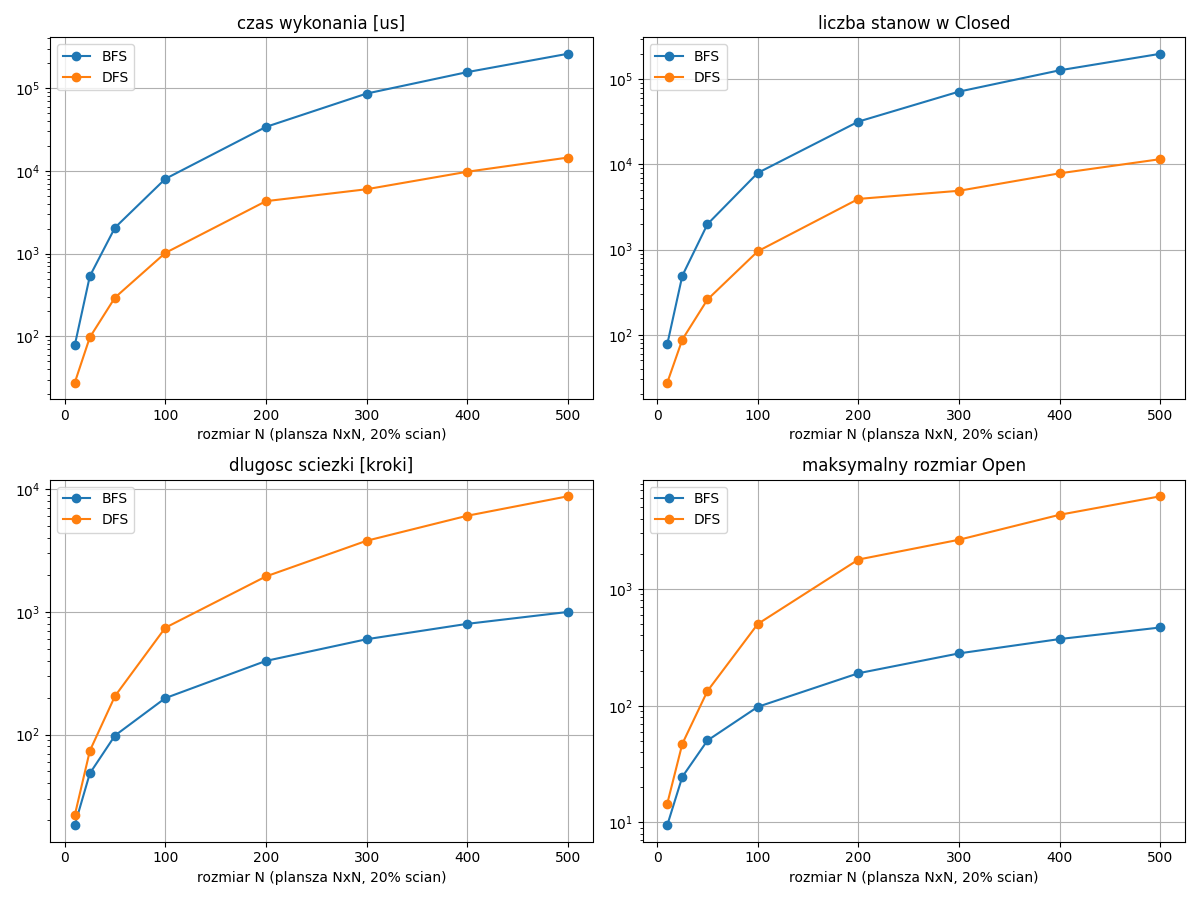
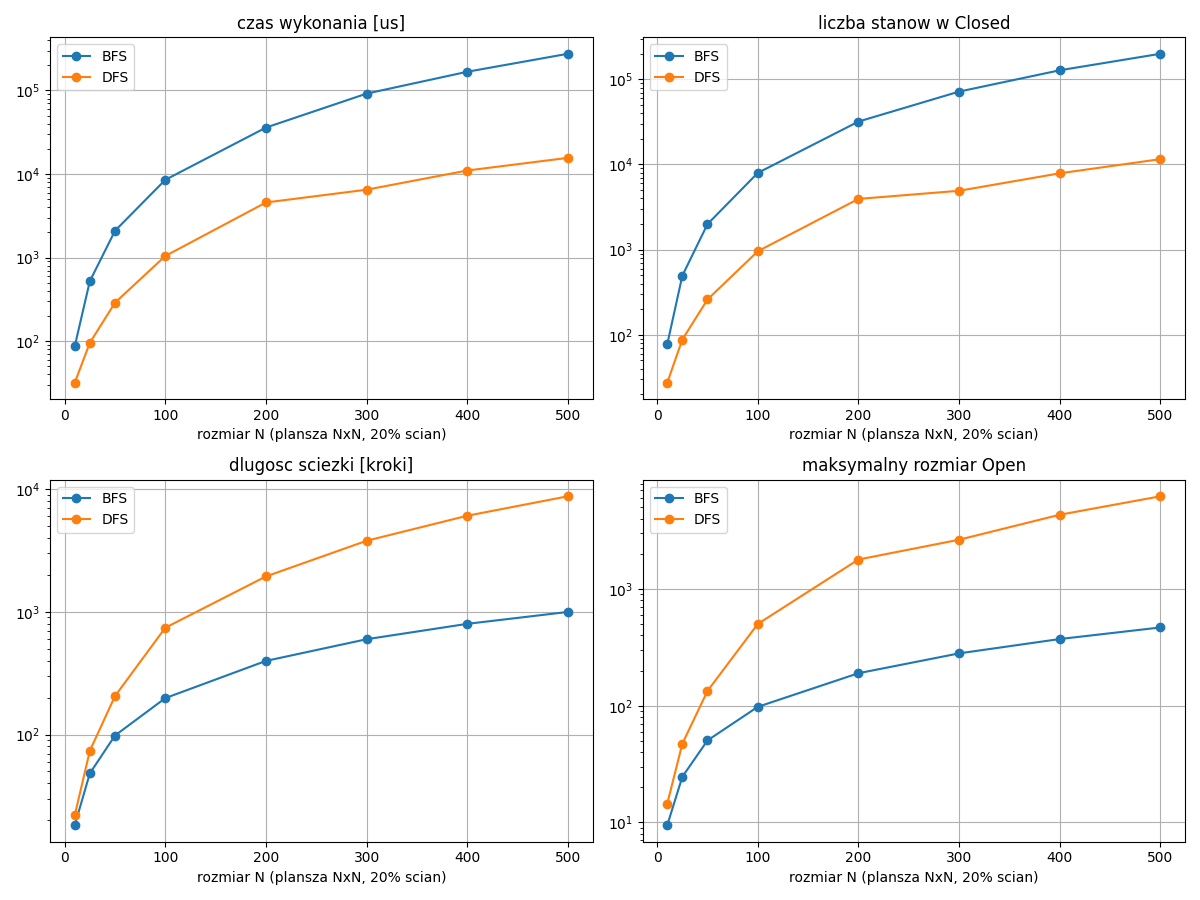
shorter version

diff --git a/LAB1/Kovalenko_A_lab1.py b/LAB1/Kovalenko_A_lab1.py
@@ -5,7 +5,7 @@ from collections import deque
 
 import matplotlib.pyplot as plt
 
-DIRS = [(-1, 0), (0, 1), (1, 0), (0, -1)]  # zad2: stala kolejnosc - gora, prawo, dol, lewo
+DIRS = [(-1, 0), (0, 1), (1, 0), (0, -1)]  # zad2: stala kolejnosc gora, prawo, dol, lewo
 
 
 # zad1: plansza = macierz 0/1 (0 wolne, 1 sciana); start (0,0) i cel (n-1,n-1) zawsze wolne
@@ -29,7 +29,7 @@ def neighbors(grid, pos, dirs=DIRS):
 def make_result(t0, found, goal, parent, open_list, closed, max_open):
     elapsed = (time.perf_counter() - t0) * 1e6
     path, node = [], goal if found else None
-    while node is not None:  # od celu do startu, potem odwracamy
+    while node is not None:  # od celu do startu potem odwracamy
         path.append(node)
         node = parent[node]
     path.reverse()
@@ -43,19 +43,19 @@ def make_result(t0, found, goal, parent, open_list, closed, max_open):
     return path, stats
 
 
-# zad3: bfs - Open jest kolejka FIFO
+# zad3: bfs - open jest kolejka fifo
 def bfs(grid, start, goal, dirs=DIRS):
     t0 = time.perf_counter()
     closed = set()  # Closed: odwiedzone stany
     parent = {start: None}  # pusty wskaznik rodzica dla startu
-    open_list = deque([start])  # Open: kolejka
-    in_open = {start}  # kopia Open jako zbior, test "t in Open" w O(1)
+    open_list = deque([start])
+    in_open = {start}
     max_open = 1
 
     while open_list:
-        s = open_list.popleft()  # FIFO: pobieramy z poczatku kolejki
+        s = open_list.popleft()
         in_open.remove(s)
-        if s == goal:  # test znalezienia rozwiazania
+        if s == goal:
             return make_result(t0, True, goal, parent, open_list, closed, max_open)
         for t in neighbors(grid, s, dirs):
             if t not in closed and t not in in_open:
@@ -67,19 +67,19 @@ def bfs(grid, start, goal, dirs=DIRS):
     return make_result(t0, False, goal, parent, open_list, closed, max_open)
 
 
-# zad3: dfs - Open jest stosem LIFO
+# zad3: dfs - open jest stosem lifo
 def dfs(grid, start, goal, dirs=DIRS):
     t0 = time.perf_counter()
-    closed = set()  # Closed: odwiedzone stany
-    parent = {start: None}  # pusty wskaznik rodzica dla startu
-    open_list = [start]  # Open: stos
-    in_open = {start}  # kopia Open jako zbior, test "t in Open" w O(1)
+    closed = set()
+    parent = {start: None}
+    open_list = [start]
+    in_open = {start}
     max_open = 1
 
     while open_list:
-        s = open_list.pop()  # LIFO: pobieramy z wierzcholka stosu
+        s = open_list.pop()
         in_open.remove(s)
-        if s == goal:  # test znalezienia rozwiazania
+        if s == goal:
             return make_result(t0, True, goal, parent, open_list, closed, max_open)
         for t in neighbors(grid, s, dirs):
             if t not in closed and t not in in_open:
@@ -100,21 +100,22 @@ def print_results(name, path, stats):
     )
 
 
-# zad6: dla kazdej wartosci parametru 20 rozwiazywalnych labiryntow, wszystkie
-# algorytmy na tych samych instancjach, stale ziarno, wyniki usrednione
-def run_series(values, make_maze, algorithms, iters=20, seed=2026):
+# zad6: dla kazdego rozmiaru 20 rozwiazywalnych labiryntow, bfs i dfs na tych samych
+# instancjach, stale ziarno, wyniki usrednione
+def run_series(sizes, density=0.2, iters=20, seed=2026):
+    algorithms = {"BFS": bfs, "DFS": dfs}
     rng = random.Random(seed)
     avg = {name: {} for name in algorithms}
     gc.disable()  # garbage collector zaklocalby pomiar czasu
-    for v in values:
+    for n in sizes:
         sums = {name: {} for name in algorithms}
         valid = 0
         while valid < iters:
-            grid = make_maze(v, rng)
-            goal = (len(grid) - 1, len(grid) - 1)
+            grid = random_maze(n, density, rng)
+            goal = (n - 1, n - 1)
             results = {n: alg(grid, (0, 0), goal) for n, alg in algorithms.items()}
             if not next(iter(results.values()))[0]:
-                continue  # brak rozwiazania -> losujemy nowy labirynt
+                continue  # if brak rozwiazania to losujemy nowy labirynt
             for name, (_, stats) in results.items():
                 for k, x in stats.items():
                     sums[name][k] = sums[name].get(k, 0) + x
@@ -124,7 +125,7 @@ def run_series(values, make_maze, algorithms, iters=20, seed=2026):
                 avg[name].setdefault(k, []).append(x / iters)
             s = {k: x[-1] for k, x in avg[name].items()}
             print(
-                f"  {v:<5} {name:<24} czas={s['time_us']:>9.0f} us  Closed={s['closed']:>8.0f}"
+                f"  N={n:<4} {name}  czas={s['time_us']:>9.0f} us  Closed={s['closed']:>8.0f}"
                 f"  sciezka={s['length']:>6.0f}  max Open={s['max_open']:>5.0f}"
             )
         gc.collect()
@@ -132,8 +133,8 @@ def run_series(values, make_maze, algorithms, iters=20, seed=2026):
     return avg
 
 
-# zad7: 4 wykresy porownawcze
-def plot(values, avg, xlabel, filename, logy=False):
+# zad7: 4 wykresy porownawcze (os y logarytmiczna, bo wartosci rosna o kilka rzedow)
+def plot(sizes, avg, filename="wykresy_rozmiar.png"):
     metrics = [
         ("time_us", "czas wykonania [us]"),
         ("closed", "liczba stanow w Closed"),
@@ -143,8 +144,8 @@ def plot(values, avg, xlabel, filename, logy=False):
     _, axs = plt.subplots(2, 2, figsize=(12, 9))
     for ax, (key, title) in zip(axs.flat, metrics):
         for name, stats in avg.items():
-            ax.plot(values, stats[key], "o-", label=name)
-        ax.set(title=title, xlabel=xlabel, yscale="log" if logy else "linear")
+            ax.plot(sizes, stats[key], "o-", label=name)
+        ax.set(title=title, xlabel="rozmiar N (plansza NxN, 20% scian)", yscale="log")
         ax.grid(True)
         ax.legend()
     plt.tight_layout()
@@ -166,29 +167,10 @@ if __name__ == "__main__":
         print_results("BFS", *bfs(grid, (0, 0), goal))
         print_results("DFS", *dfs(grid, (0, 0), goal))
 
-    bfs_dfs = {"BFS": bfs, "DFS": dfs}
     sizes = [10, 25, 50, 100, 200, 300, 400, 500]
-    print("\neksperyment 1: rosnacy rozmiar N, 20% scian (srednie z 20 labiryntow)")
-    avg = run_series(sizes, lambda n, rng: random_maze(n, 0.2, rng), bfs_dfs)
-    plot(sizes, avg, "rozmiar N (plansza NxN, 20% scian)", "wykresy_rozmiar.png", logy=True)
-
-    densities = [0.05, 0.10, 0.15, 0.20, 0.25, 0.30, 0.35, 0.40]
-    print("\neksperyment 2: plansza 50x50, rosnaca gestosc scian")
-    avg = run_series(densities, lambda d, rng: random_maze(50, d, rng), bfs_dfs)
-    plot(densities, avg, "gestosc scian (plansza 50x50)", "wykresy_gestosc.png")
-
-    # wplyw kolejnosci sasiadow na dfs
-    orders = {
-        "BFS": bfs,
-        "DFS gora,prawo,dol,lewo": dfs,
-        "DFS dol,prawo,gora,lewo": lambda g, s, e: dfs(g, s, e, [(1, 0), (0, 1), (-1, 0), (0, -1)]),
-        "DFS prawo,dol,lewo,gora": lambda g, s, e: dfs(g, s, e, [(0, 1), (1, 0), (0, -1), (-1, 0)]),
-    }
-    sizes = [10, 25, 50, 100, 200]
-    print("\neksperyment 3: wplyw kolejnosci sasiadow na DFS")
-    avg = run_series(sizes, lambda n, rng: random_maze(n, 0.2, rng), orders)
-    plot(sizes, avg, "rozmiar N (plansza NxN, 20% scian)", "wykresy_kolejnosc.png", logy=True)
-    print("\nzapisano: wykresy_rozmiar.png, wykresy_gestosc.png, wykresy_kolejnosc.png")
+    print("\neksperyment: rosnacy rozmiar N, 20% scian (srednie z 20 labiryntow)")
+    plot(sizes, run_series(sizes))
+    print("\nzapisano: wykresy_rozmiar.png")
 
 
 # zad8: wnioski
@@ -197,11 +179,13 @@ if __name__ == "__main__":
    gwarantuje optymalnosci - jego sciezki sa kilka razy dluzsze (ok. 8750 krokow).
 2. Czas i Closed: dfs znajduje cel duzo szybciej i odwiedza mniej pol (500x500: ok. 12 tys.
    stanow i 15 ms wobec 200 tys. i 260 ms dla bfs), bo bfs rozchodzi sie "fala" po calej
-   planszy. Wraz z gestoscia scian bfs odwiedza mniej pol, dfs wiecej (slepe zaulki).
+   planszy, a dfs idzie od razu w glab.
 3. Pamiec: na siatce to dfs ma wiekszy max Open (500x500: ok. 6200 wobec 470), bo na stosie
    zostaja nierozwiniete sasiedztwa calej dlugiej galezi; front bfs rosnie liniowo z N.
 4. Bfs - gdy potrzebna jest najkrotsza sciezka; dfs - gdy wystarczy dowolna i liczy sie czas.
-5. Kolejnosc sasiadow: dfs rozwija najpierw ostatnio dodanego potomka. Dla gora,prawo,dol,lewo
-   idzie w dol/prawo, czyli w strone celu; kolejnosci preferujace gore/lewo daja 4-6x dluzsze
-   sciezki i wiecej Closed. Na dlugosc sciezki bfs kolejnosc nie wplywa.
+5. Kolejnosc sasiadow: dfs rozwija najpierw ostatnio dodanego potomka (stos). Dla kolejnosci
+   gora,prawo,dol,lewo probuje najpierw lewo, potem dol - przy lewej krawedzi schodzi wiec
+   w dol i dalej w prawo, czyli w strone celu w prawym dolnym rogu. Kolejnosc, w ktorej
+   priorytet maja kierunki od celu (gora/lewo), daje dfs-owi duzo dluzsze sciezki i wiecej
+   stanow w Closed. Na dlugosc sciezki bfs kolejnosc nie wplywa (zawsze najkrotsza).
 """
